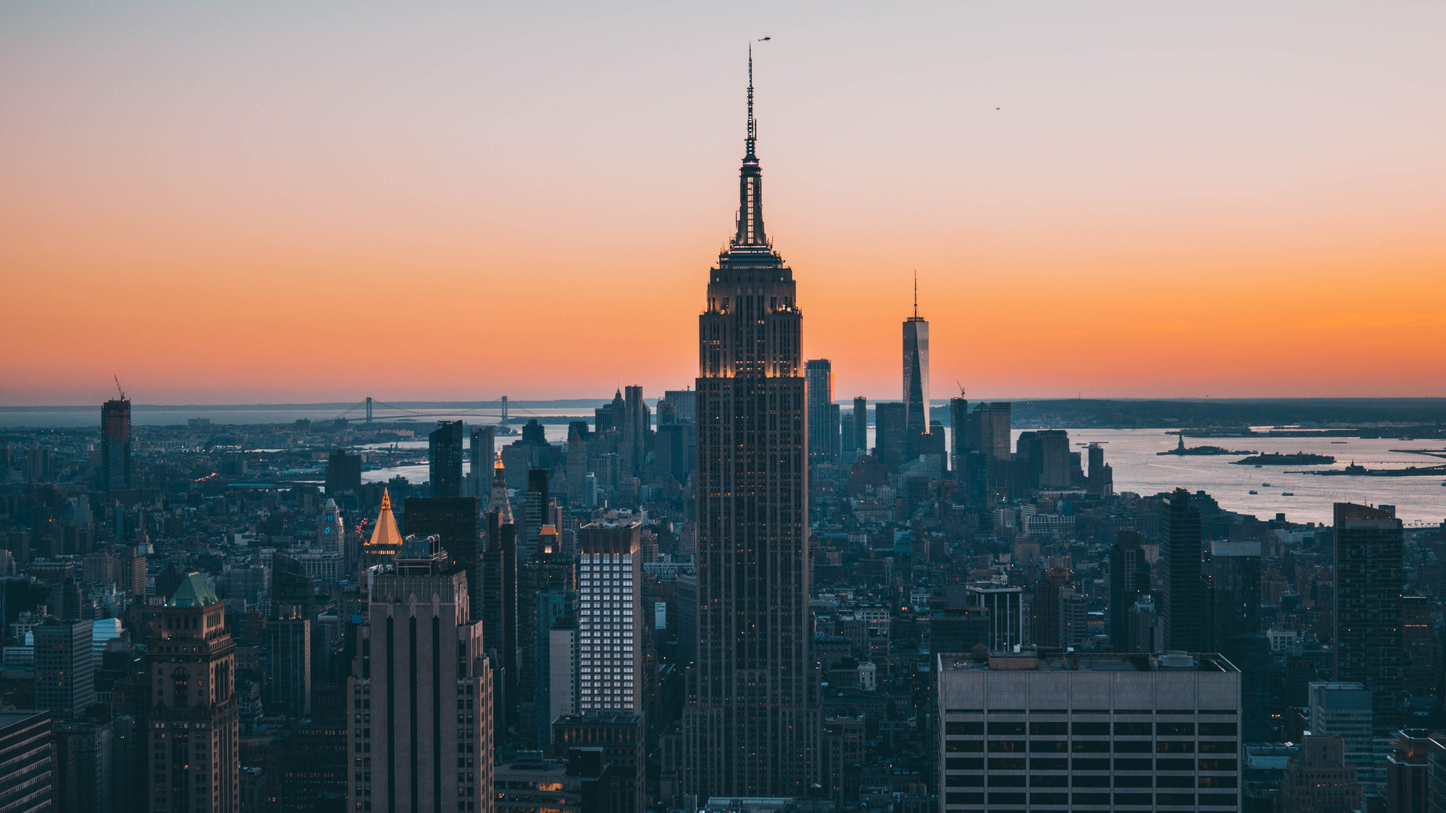
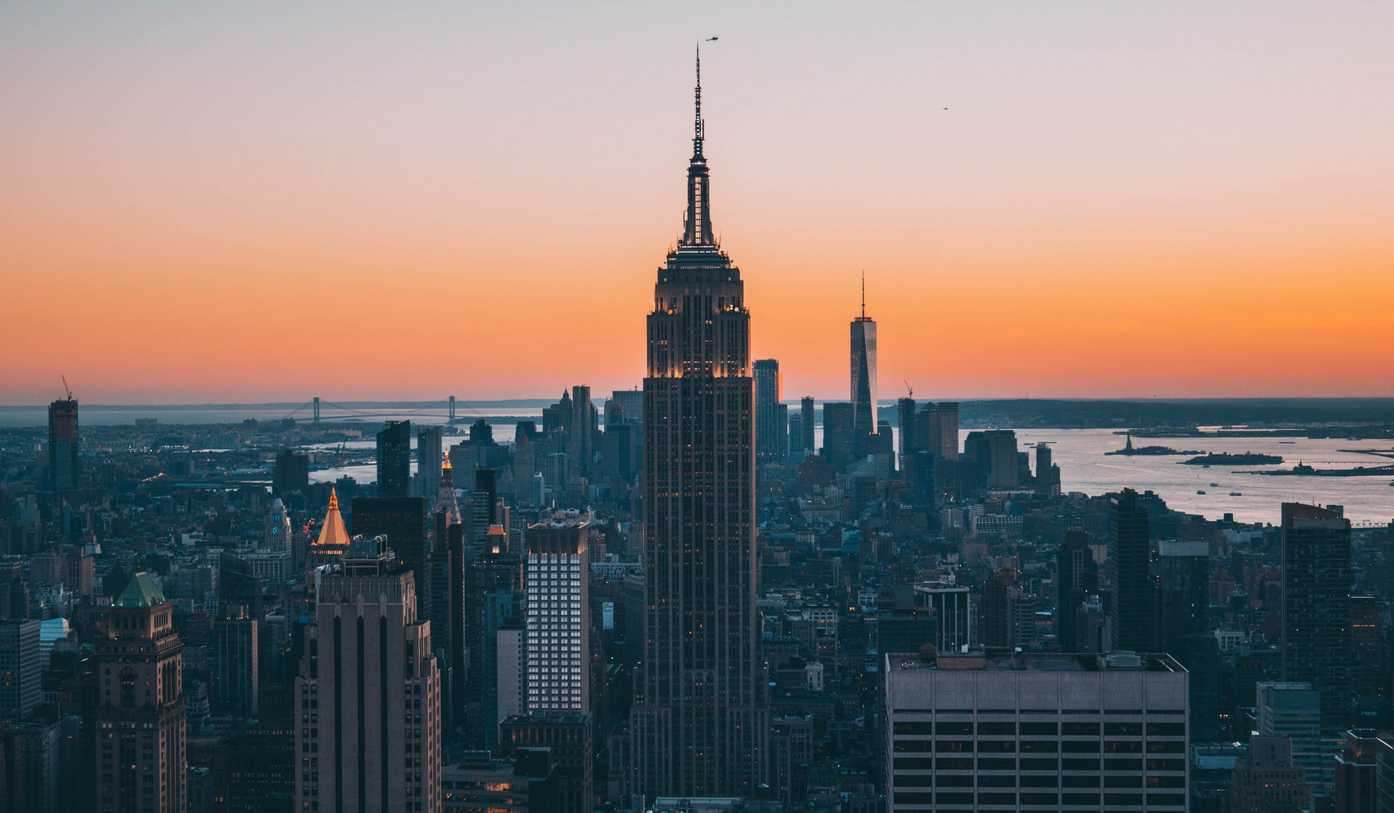
Updated Projects.js background image

diff --git a/src/App.css b/src/App.css
@@ -26,7 +26,7 @@
   width: 100vw;
   background-image: url('./images/BackgroundImages/nyc_skyline.jpg');
   background-size: cover;
-  background-position: 57.5% center;
+  background-position: center center;
 }
 #contact{
   height: auto;
